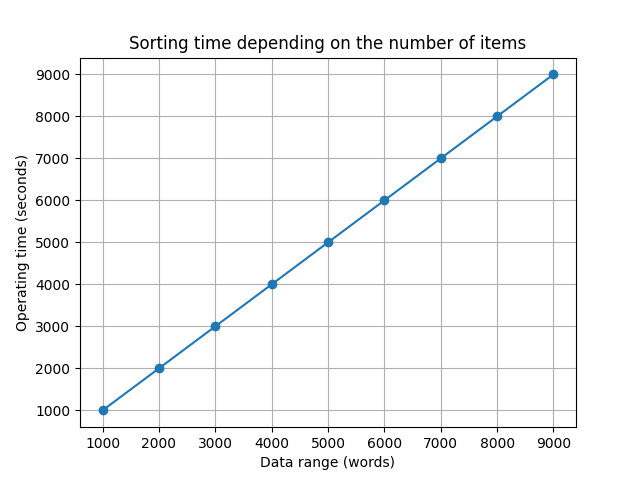
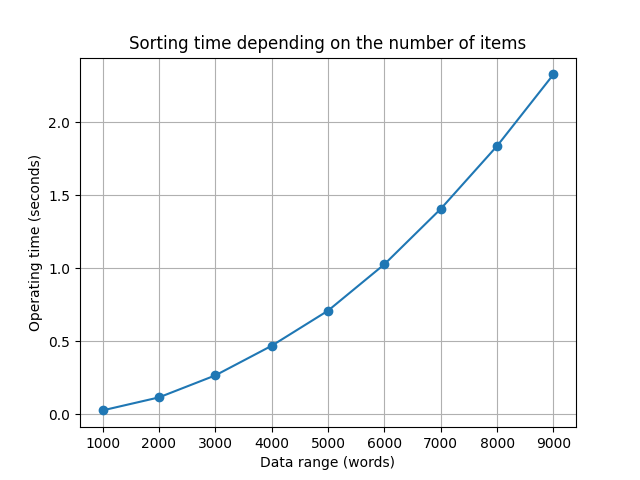
Minor changes

diff --git a/sortowania/bubblesort.py b/sortowania/bubblesort.py
@@ -4,30 +4,31 @@ from time import time
 from readfromtxt import read_from_txt
 
 
-def bubblesort(list: list):
-    for i in range(len(list)):
-        for j in range(len(list) - i - 1):
-            if list[j] > list[j + 1]:
-                list[j], list[j+1] = list[j+1], list[j]
-    return list
+class Bubblesort:
+    def __init__(self, data):
+        self._data = data
 
+    def bubblesort(self, data):
+        for i in range(len(data)):
+            for j in range(len(data) - i - 1):
+                if data[j] > data[j + 1]:
+                    data[j], data[j+1] = data[j+1], data[j]
+        return data
 
-def bubblesort_runtime(data):
-    start_time = time()
-    bubblesort(data)
-    endtime = time()
-    return endtime - start_time
+    def bubblesort_runtime(self, data: list):
+        start_time = time()
+        self.bubblesort(data)
+        endtime = time()
+        return endtime - start_time
 
-
-def bubblesort_test(data):
-    runtimes = {}
-    print(data)
-    for i in range(1000, 10000, 1000):
-        o_data = data[:i]
-        runtimes[i] = bubblesort_runtime(o_data)
-    print(runtimes)
-    graph_creating(runtimes, 'bubblesort_runtimes')
+    def bubblesort_test(self):
+        runtimes = {}
+        for i in range(1000, 10000, 1000):
+            o_data = self._data[:i]
+            runtimes[i] = self.bubblesort_runtime(o_data)
+        graph_creating(runtimes, 'bubblesort_runtimes')
 
 
 data = read_from_txt('pan-tadeusz.txt')
-bubblesort_test(data)
+b_sort_1 = Bubblesort(data)
+b_sort_1.bubblesort_test()

diff --git a/sortowania/graphcreating.py b/sortowania/graphcreating.py
@@ -5,7 +5,7 @@ def graph_creating(data: dict, save_name):
     # Arguement is dict, where keys represents size of tested data,
     #  and values represents program runtime
     sizes = data.keys()
-    times = data.keys()
+    times = data.values()
     plt.plot(sizes, times, marker='o')
     plt.title('Sorting time depending on the number of items')
     plt.xlabel('Data range (words)')
